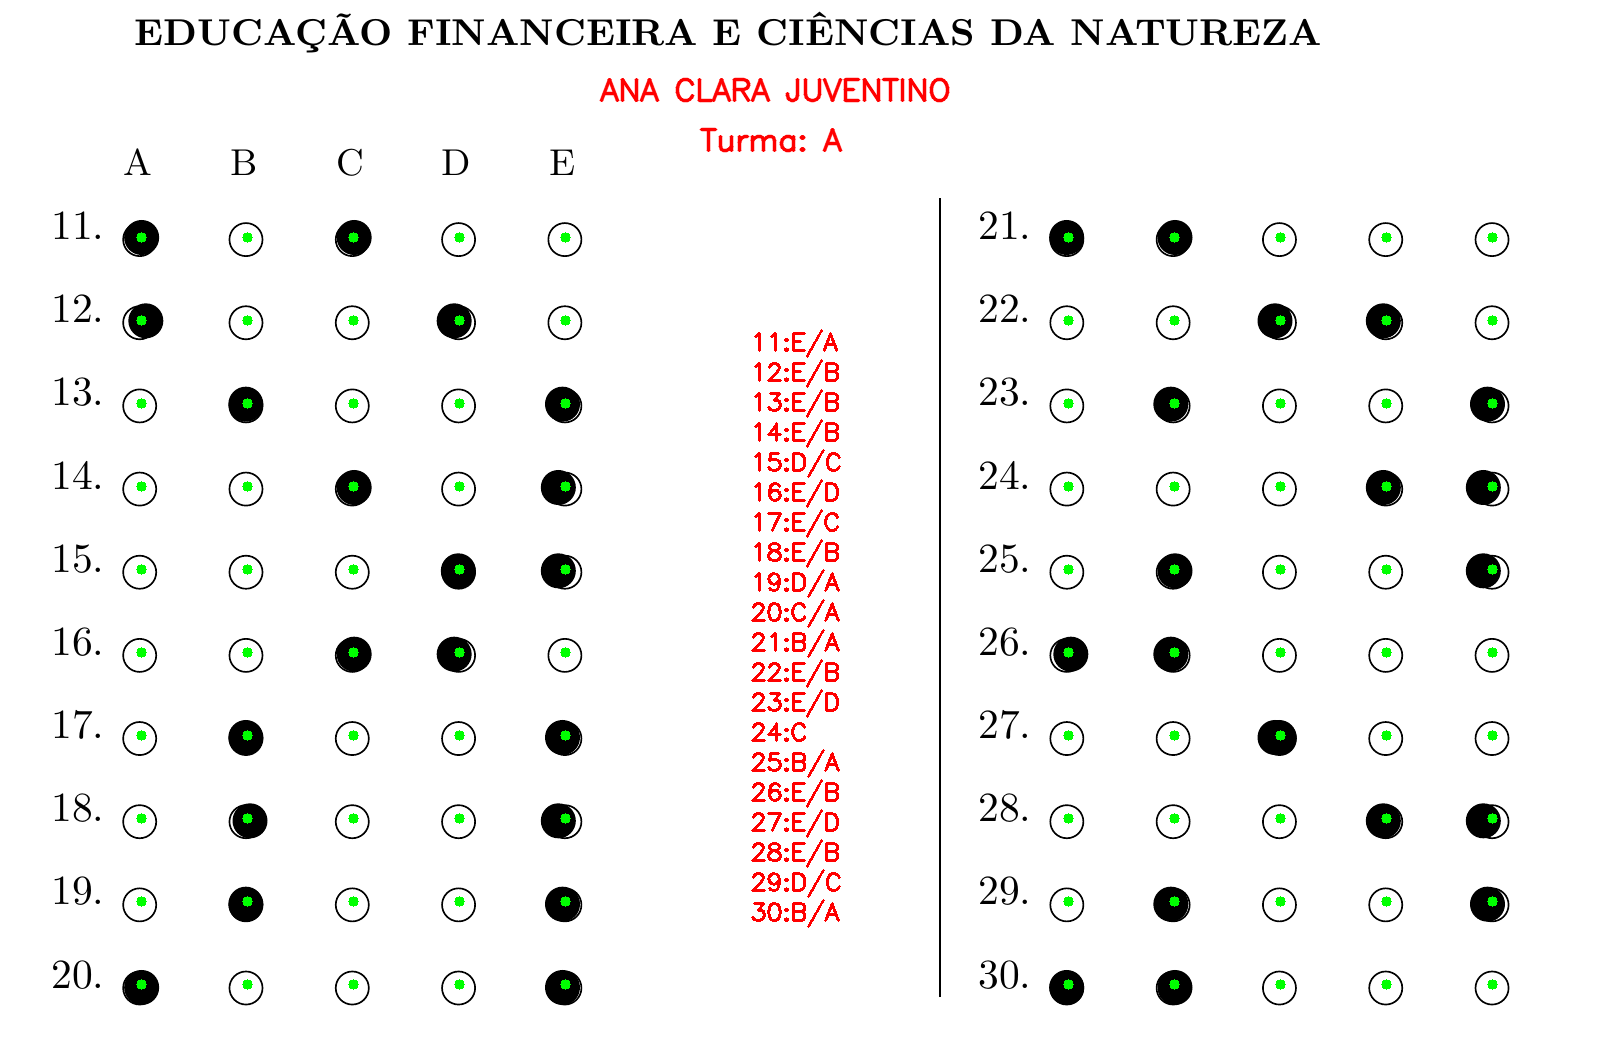
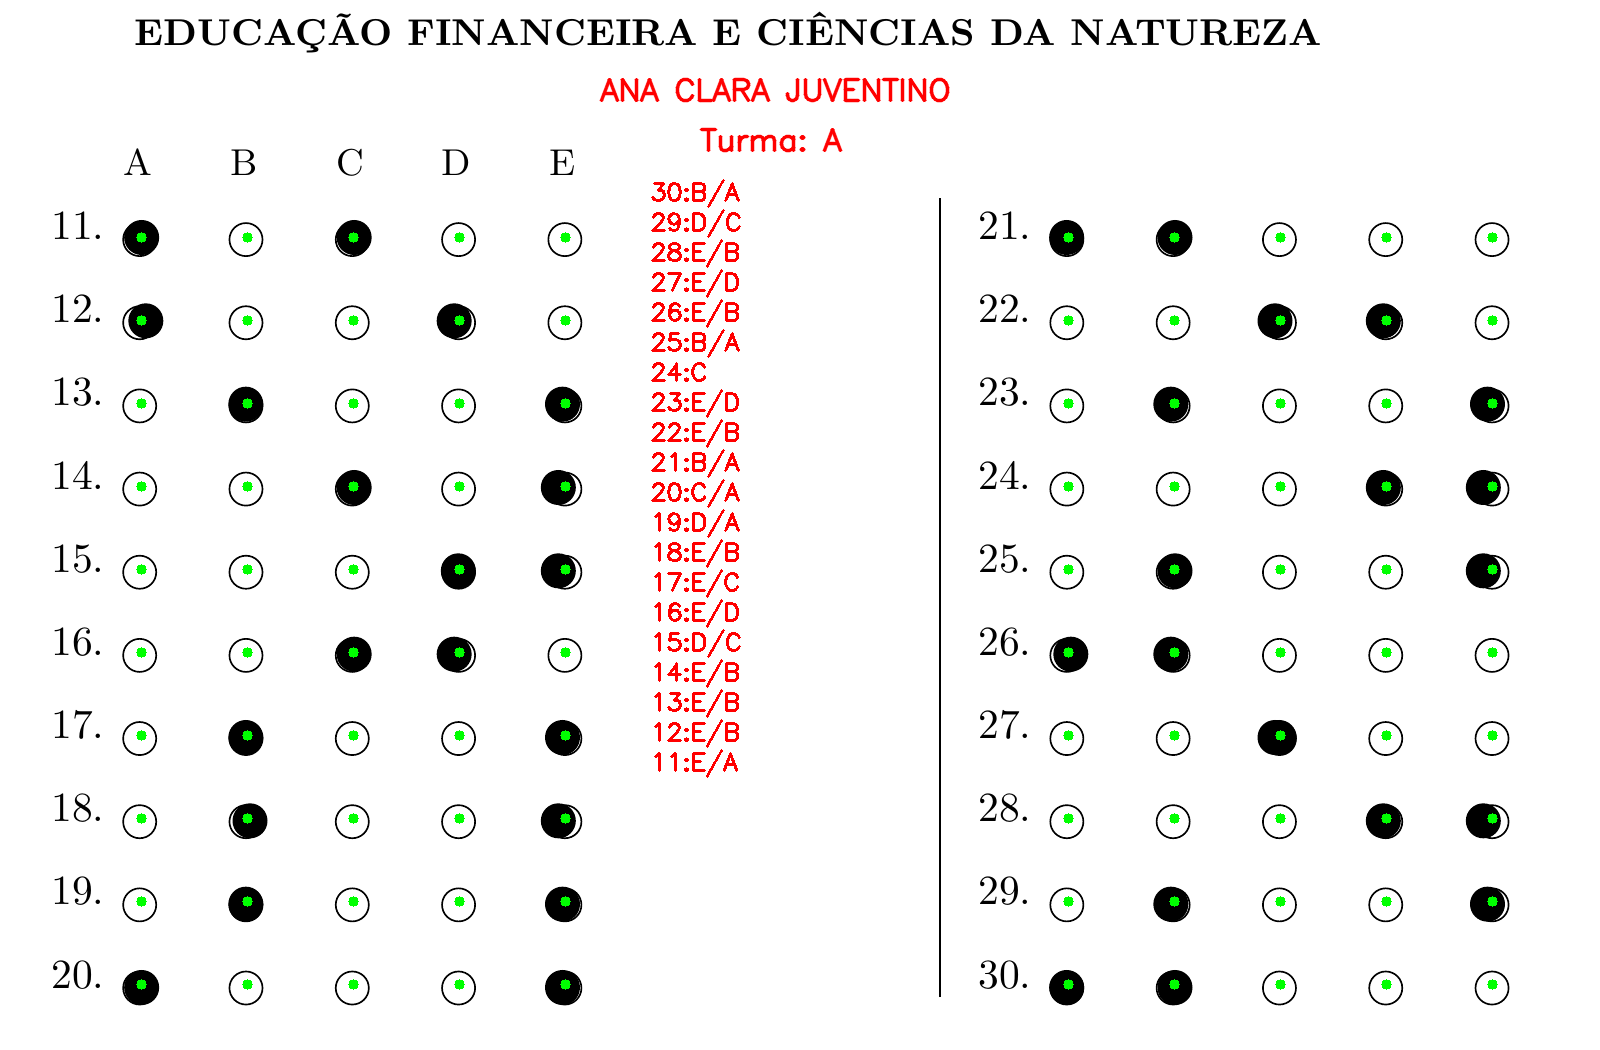
Almost there, done for now

Changed region(s): [[0.4062, 0.1524, 0.5312, 0.8838]]

diff --git a/AI/gabarito_answered/detectCirclesToAnswer.py b/AI/gabarito_answered/detectCirclesToAnswer.py
@@ -2,6 +2,7 @@ import cv2
 import numpy as np
 import pdfplumber
 from icecream import ic
+from collections import defaultdict
 
 # ---------------------------------------------------
 # 1. Ler PDF e extrair nome e turma
@@ -56,23 +57,23 @@ print(f"Detectados {len(circles)} círculos pretos")
 # ---------------------------------------------------
 img_color = cv2.cvtColor(img_gray, cv2.COLOR_GRAY2BGR)
 
-def build_matrix(x0):
+def build_matrix(x0, y_start=237, n_rows=10, n_cols=5, x_step=106, y_step=83):
     """
-    Retorna matriz 10x5 com coordenadas centrais esperadas
-    para cada questão/alternativa (ajuste se o layout mudar).
+    Retorna matriz n_rows x n_cols com coordenadas centrais esperadas
+    para cada questão/alternativa.
     """
-    m = np.empty((10, 5), dtype=object)
-    y = 237
-    for i in range(10):
+    m = np.empty((n_rows, n_cols), dtype=object)
+    y = y_start
+    for i in range(n_rows):
         x = x0
-        for j in range(5):
+        for j in range(n_cols):
             m[i, j] = (x, y)
-            x += 106
-        y += 83
+            x += x_step
+        y += y_step
     return m
 
-matrix1 = build_matrix(141)   # primeira coluna
-matrix2 = build_matrix(1068)  # segunda coluna
+matrix1 = build_matrix(141)    # primeira coluna
+matrix2 = build_matrix(1068)   # segunda coluna
 
 # pontos de referência (opcional para depuração)
 for matrix in (matrix1, matrix2):
@@ -90,27 +91,37 @@ def detect_answers_multi(circles, matrix, start_q):
     Associa as bolhas detectadas às questões e retorna
     dict {numero_questao: [lista de alternativas]}.
     """
-    out = {start_q - i: [] for i in range(10)}  # ex: {20:[],19:[],...}
+    out = defaultdict(list)
     for cx, cy, _ in circles:
         for i, linha in enumerate(matrix):
             qnum = start_q - i
             for j, (x, y) in enumerate(linha):
-                if (x - 25 < cx < x + 25) and (y - 25 < cy < y + 25):
+                if np.hypot(cx - x, cy - y) < 25:  # distância euclidiana
                     out[qnum].append(jalternative[j])
-    return {k: v for k, v in out.items() if v}  # remove vazios
+    return dict(out)
 
-answers  = detect_answers_multi(circles, matrix1, 20)
-answers2 = detect_answers_multi(circles, matrix2, 30)
-answers.update(answers2)
-ic(answers)
+answers_col1 = detect_answers_multi(circles, matrix1, 20)
+answers_col2 = detect_answers_multi(circles, matrix2, 30)
+
+# combinar sem sobrescrever alternativas
+answers_combined = defaultdict(list)
+for k, v in answers_col1.items():
+    answers_combined[k].extend(v)
+for k, v in answers_col2.items():
+    answers_combined[k].extend(v)
+
+ic(dict(answers_combined))
 
 # ---------------------------------------------------
 # 6. Anotar respostas, nome e turma na imagem
 # ---------------------------------------------------
-for q, alts in answers.items():
+sorted_questions = sorted(answers_combined.keys(), reverse=True)
+y_base = 200
+for idx, q in enumerate(sorted_questions):
+    alts = answers_combined[q]
     txt = f"{q}:{'/'.join(alts)}"
     cv2.putText(img_color, txt,
-                (750, 20 + 30 * q),
+                (650, y_base + 30 * idx),
                 cv2.FONT_HERSHEY_SIMPLEX,
                 0.8, (0, 0, 255), 2)
 

diff --git a/AI/gabarito_answered/readpngtoarray.py b/AI/gabarito_answered/readpngtoarray.py
@@ -233,11 +233,16 @@ for block in blocks:
 # =============================================================
 # 6) Saída
 # =============================================================
+question_offset = {}
+
 if not results:
     print("Nenhuma marcação detectada — ajuste parâmetros.")
 else:
     for q in sorted(results):
-        print(f"Questão {q}: {results[q]}")
+        #print(f"Questão {q}: {results[q]}")
+        question_offset[q] = results[q]
+
+ic(question_offset)
 
 # =============================================================
 # 7) Anotação final da imagem
